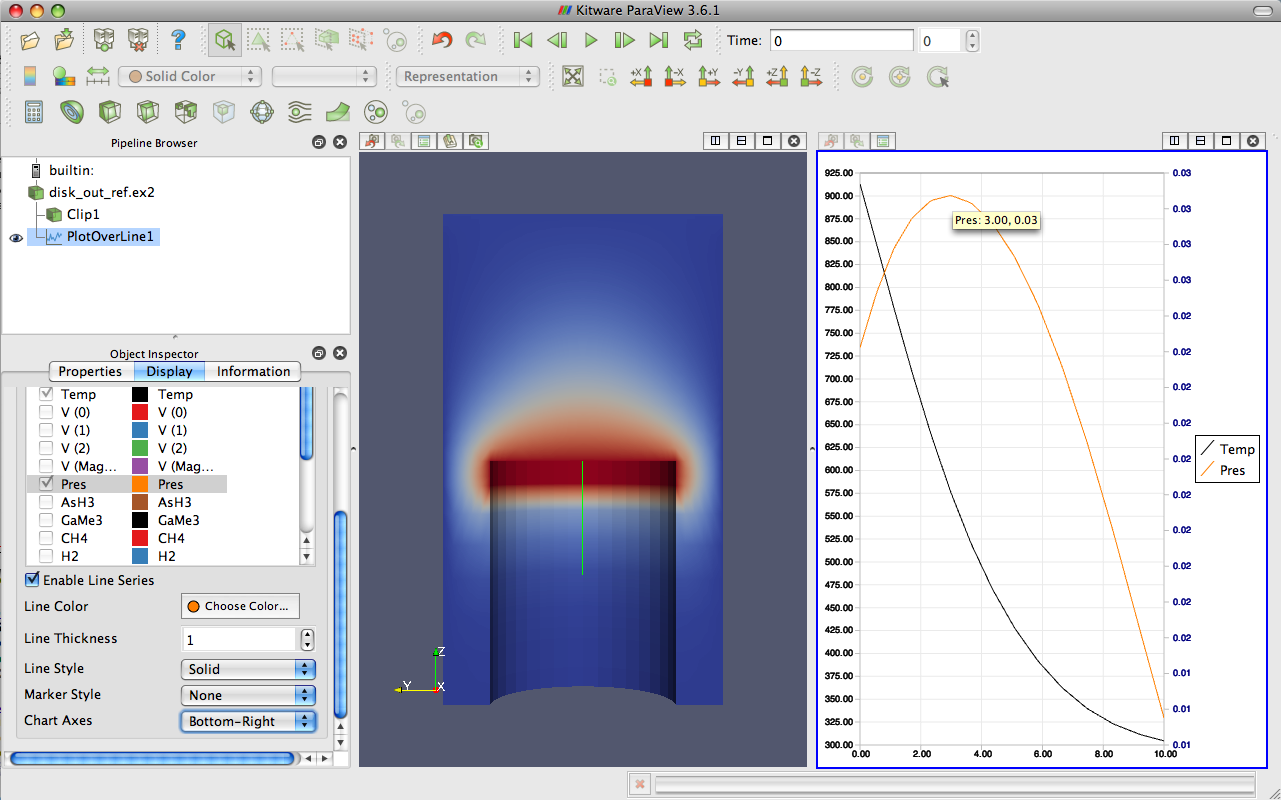
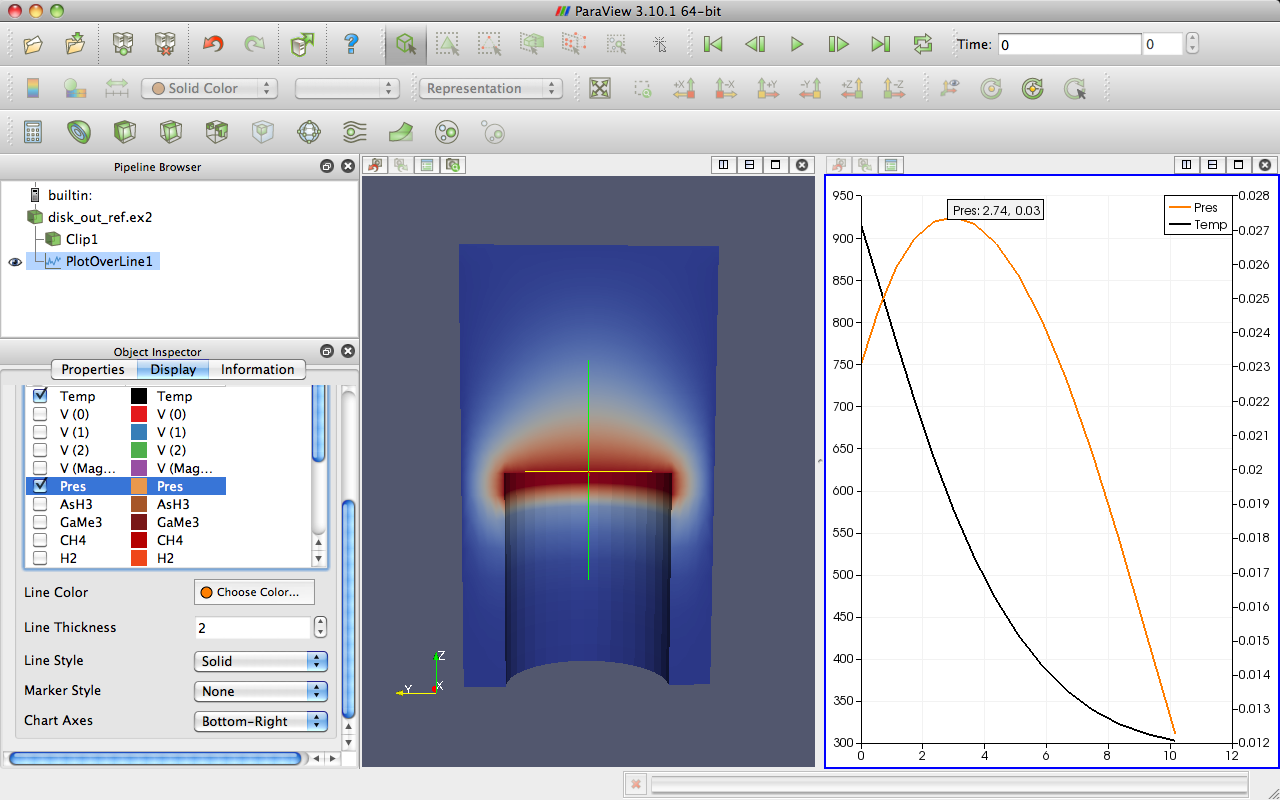
Re-update plotting to show two scales on same plot.
This feature was temporarily lost in 3.8 when the latest version of
plots were first introduced, but is available again.

diff --git a/BasicUsage.tex b/BasicUsage.tex
@@ -931,7 +931,7 @@ filter that will plot the values of the mesh’s fields over a line in space.
   \end{inlinefig}
 
   There are several interactions you can do with the plot.  Drag with the
-  middle button up and down to zoom in and out.  Drag with the right button
+  middle button up and down to zoom in and out.  Drag with the middle button
   to do a rubber band zoom.  Drag with the left button to scroll the plot
   around.  You can also use the reset camera command~\resetCamera to restore
   the view to the full domain and range of the plot.
@@ -981,33 +981,19 @@ temperature variables.
   \end{enumerate}
 
   The \gui{Temp} and \gui{Pres} variables have different units.  Putting
-  them on the same scale is not useful.  %We can still compare them in the
-  %same plot by placing each variable on its own scale.  The line plot in
-  %ParaView allows for a different scale on the left and right axis, and you
-  %can scale each variable individually on each axis.
-  We will use two plot views to compare the variation in the two
-  quantities over the same line.%
-  \footnote{The 2D plotting infrastructure in ParaView underwent a major
-    restructuring for version 3.8. Unfortunately, the ability to plot
-    two variables on the same plot with different scales was lost. We
-    anticipate that capability will return for release 3.8.1.}
+  them on the same scale is not useful.  We can still compare them in the
+  same plot by placing each variable on its own scale.  The line plot in
+  ParaView allows for a different scale on the left and right axis, and you
+  can scale each variable individually on each axis.
 
   \begin{enumerate}
     \restorecounter
-  \item Split~\icon{pqSplitViewV12} the plot view and create a new
-    \gui{Line Chart View} underneath the existing one.
-  \item Make the \gui{Plot Over Line} filter active if it is not already by
-    selecting it in the \gui{Pipeline Browser} and make it
-    visible~\eyeball in the new view.
-  \item On the \gui{Display} tab of the \gui{Object Inspector}, enable
-    only the \gui{Pres} variable.
-  \item Toggle the visibility of the \gui{Plot Over Line} filter to
-    reset the axis.
+  \item Select the \gui{Pres} variable in the \gui{Display} tab.
+  \item Change the \gui{Chart Axis} to \gui{Bottom - Right}
   \end{enumerate}
 
   \begin{inlinefig}
-    %\includegraphics[width=\scw]{images/LinePlot3}
-    \includegraphics[width=.5\scw]{images/LinePlot4}
+    \includegraphics[width=\scw]{images/LinePlot3}
   \end{inlinefig}
 
   From this plot we can verify some of the observations we made in
@@ -1015,7 +1001,7 @@ temperature variables.
   at the plate surface and falls as we move away from the plate, but the
   pressure goes up and then back down.  In addition, we can observe that
   the maximal pressure (and hence the location where the forces on the air
-  are equalized) is three units away from the disk.
+  are equalized) is 2.74 units away from the disk.
 \end{exercise}
 
 The ParaView framework is designed to accommodate any number of different
